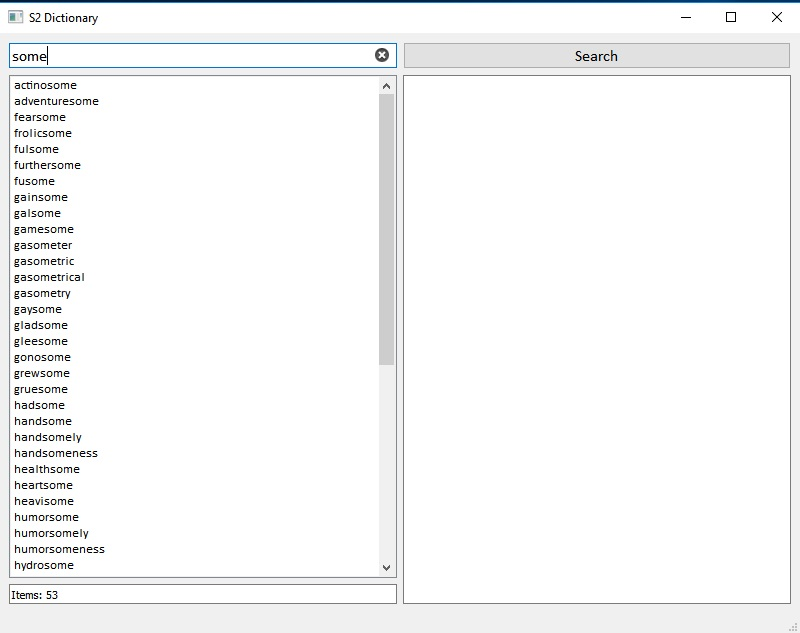
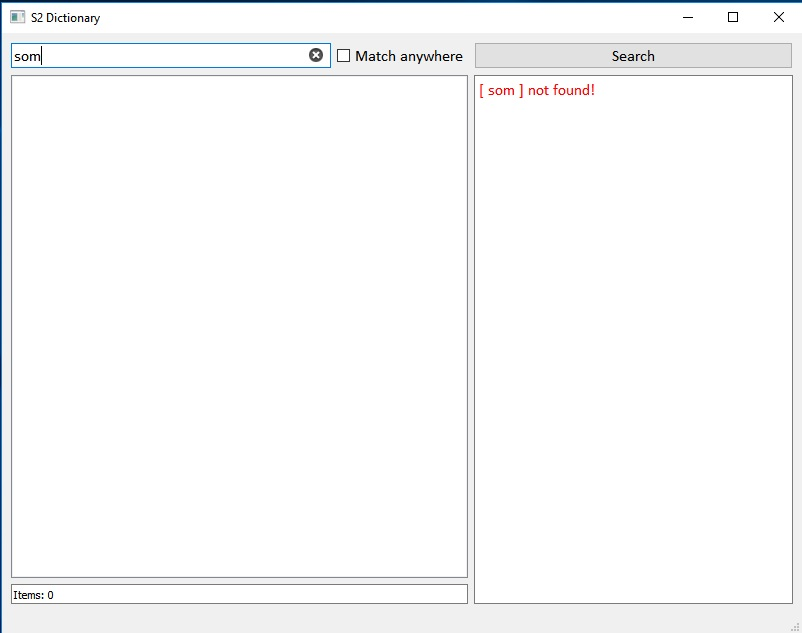
Added strict matching

Changed region(s): [[0.0, 0.0, 0.125, 0.9605], [0.375, 0.06, 0.8125, 0.9605]]

diff --git a/Source/mainwindow.cpp b/Source/mainwindow.cpp
@@ -36,11 +36,11 @@ void DictionaryLoadWorker::LoadDictionary()
         {
             QString word = line.left(splitIndex).toLower();
             QString meaning = line.right(line.size() - splitIndex - 1);
-            m_wordDictionary[word] = meaning;
+            (*m_wordDictionary)[word] = meaning;
         }
     }// End of file
 
-    qDebug() << "Words loaded: " << m_wordDictionary.size();
+    qDebug() << "Words loaded: " << m_wordDictionary->size();
     if (invalidEntries)
     {
         qDebug() << "Invalid words: " << invalidEntries;
@@ -59,16 +59,21 @@ MainWindow::MainWindow(QWidget *parent)
 
     qRegisterMetaType<QStringMap>("QStringMap");
 
+    m_bUseMatchAnywhere = ui->chkUseRegex->isChecked();
+
+    // Create model data
     m_modelFilterData = new QStandardItemModel();
     m_modelAllData = new QStandardItemModel();
 
+    // allocate memory to Word dictionary
+    m_wordDictionary = new QStringMap;
+
     // Entire word list is the currently active model
     m_activeModel = m_modelAllData;
-    m_activeModel->sort(0, Qt::AscendingOrder);
 
     // Create dictionary load worker and start running
     DictionaryLoadWorker *worker = new DictionaryLoadWorker(m_wordDictionary);
-    connect(worker, SIGNAL(DictionaryLoaded(QStringMap)), this, SLOT(OnDictionaryLoaded(QStringMap)));
+    connect(worker, SIGNAL(DictionaryLoaded(QStringMap*)), this, SLOT(OnDictionaryLoaded(QStringMap*)));
     worker->start();
 
     ui->statusBar->showMessage("Loading Dictionary. Please wait...");
@@ -87,18 +92,34 @@ MainWindow::~MainWindow()
 void MainWindow::UpdateModel(QStandardItemModel* model)
 {
     m_activeModel = model;
+    m_activeModel->sort(0, Qt::AscendingOrder);
     ui->listWords->setModel(m_activeModel);
 }
 
 //-------------------------------------------------------------------------------------------------------
-// Populates the word list as per the provided wordDictionary
+// Prepares model data for all the words in the dictionary
 //-------------------------------------------------------------------------------------------------------
-void MainWindow::PopulateWordList(const QStringMap & wordDictionary, bool bPopulateFullData)
+void MainWindow::PrepareDictionaryModelData()
+{
+    for(auto item = m_wordDictionary->begin(); item != m_wordDictionary->end(); item++)
+    {
+        QStandardItem *modelItem = new QStandardItem(item.key());
+        modelItem->setFlags(modelItem->flags() &  ~Qt::ItemIsEditable);
+        m_modelAllData->appendRow(modelItem);
+    }
+}
+
+//-------------------------------------------------------------------------------------------------------
+// Populates the word list as per the provided wordDictionary
+// By default bPopulateFullData = false
+//-------------------------------------------------------------------------------------------------------
+void MainWindow::PopulateWordList(QStringMap * wordDictionary)
 {
     ui->statusBar->showMessage("Populating word list...");
 
-    if (bPopulateFullData)
+    if (!wordDictionary)
     {
+        // Update word list as per the actual dictionary
         UpdateModel(m_modelAllData);
     }
     else
@@ -106,13 +127,14 @@ void MainWindow::PopulateWordList(const QStringMap & wordDictionary, bool bPopul
         // Clear the existing list first
         m_modelFilterData->clear();
 
-        for(auto item = wordDictionary.begin(); item != wordDictionary.end(); item++)
+        for(auto item = wordDictionary->begin(); item != wordDictionary->end(); item++)
         {
             QStandardItem *modelItem = new QStandardItem(item.key());
             modelItem->setFlags(modelItem->flags() &  ~Qt::ItemIsEditable);
             m_modelFilterData->appendRow(modelItem);
         }
 
+        // Update word list as per filter data
         UpdateModel(m_modelFilterData);
     }
 
@@ -124,17 +146,18 @@ void MainWindow::PopulateWordList(const QStringMap & wordDictionary, bool bPopul
 //-------------------------------------------------------------------------------------------------------
 // Triggered when the Dictionary load has completed
 //-------------------------------------------------------------------------------------------------------
-void MainWindow::OnDictionaryLoaded(QStringMap wordDictionary)
+void MainWindow::OnDictionaryLoaded(QStringMap * wordDictionary)
 {
     m_wordDictionary = wordDictionary;
-    if (m_wordDictionary.empty())
+    if (m_wordDictionary->empty())
     {
         ui->statusBar->showMessage("Failed to load dictionary!");
         return;
     }
 
-    ui->statusBar->showMessage("Dictionary loaded with " + QString::number(m_wordDictionary.size()) + " words.", 2);
-    PopulateWordList(m_wordDictionary);
+    ui->statusBar->showMessage("Dictionary loaded with " + QString::number(m_wordDictionary->size()) + " words.", 2);
+    PrepareDictionaryModelData();
+    PopulateWordList();
 
     ui->inpWord->setFocus();
 }
@@ -147,26 +170,39 @@ void MainWindow::on_inpWord_textChanged(const QString &arg1)
 {
     if (arg1.isEmpty())
     {
-        // Show entire entire word list if not already showing
-        PopulateWordList(m_wordDictionary);
+        // Show entire entire word list
+        PopulateWordList();
     }
     else if (arg1.size() > MIN_WORD_LENGTH_FOR_PREDICTION)
     {
-        QRegExp regexSearch(arg1.toLower());
         QString item;
-        QStringMap searchedWordsDict;
-        for (auto item = m_wordDictionary.begin(); item != m_wordDictionary.end(); item++)
+        QStringMap *searchedWordsDict = new QStringMap;
+        for (auto item = m_wordDictionary->begin(); item != m_wordDictionary->end(); item++)
         {
             QString word = item.key();
-            if (word.contains(regexSearch))
+            if (m_bUseMatchAnywhere)
             {
-                // Add this word to the filtered map
-                searchedWordsDict[word] = m_wordDictionary[word];
+                QRegExp regexSearch(arg1.toLower());
+                if (word.contains(regexSearch))
+                {
+                    // Add this word to the filtered map
+                    (*searchedWordsDict)[word] = m_wordDictionary->value(word);
+                }
+            }
+            else
+            {
+                QString searchString = arg1.toLower();
+                if (word.startsWith(searchString))
+                {
+                    // Add this word to the filtered map
+                    (*searchedWordsDict)[word] = m_wordDictionary->value(word);
+                }
             }
         }
 
         // Show in word list pane
         PopulateWordList(searchedWordsDict);
+        delete searchedWordsDict;
     }
 }
 
@@ -175,9 +211,9 @@ void MainWindow::on_inpWord_textChanged(const QString &arg1)
 //-------------------------------------------------------------------------------------------------------
 void MainWindow::ShowMeaning(const QString & word)
 {
-    if (m_wordDictionary.contains(word))
+    if (m_wordDictionary->contains(word))
     {
-        QString meaning = m_wordDictionary[word];
+        QString meaning = (*m_wordDictionary)[word];
         ui->txtMeaning->setHtml("<B>" + word + "</B><BR><BR>" + meaning);
     }
     else
@@ -210,4 +246,26 @@ void MainWindow::on_listWords_doubleClicked(const QModelIndex &index)
     QStandardItem *item = m_activeModel->itemFromIndex(index);
     QString word = item->text();
     ShowMeaning(word);
+}
+
+//-------------------------------------------------------------------------------------------------------
+// Triggered when regex search is enabled/disabled
+//-------------------------------------------------------------------------------------------------------
+void MainWindow::on_chkUseRegex_stateChanged(int arg1)
+{
+    m_bUseMatchAnywhere = arg1 == Qt::Checked;
+    if (m_bUseMatchAnywhere)
+    {
+        ui->statusBar->showMessage("Using match anywhere");
+    }
+    else
+    {
+        ui->statusBar->showMessage("using strict matching");
+    }
+
+    QString searchText = ui->inpWord->text().toLower();
+    if (!searchText.isEmpty())
+    {
+        on_inpWord_textChanged(searchText);
+    }
 }

diff --git a/Source/mainwindow.h b/Source/mainwindow.h
@@ -31,12 +31,13 @@ class MainWindow : public QMainWindow
 public:
     MainWindow(QWidget *parent = nullptr);
     ~MainWindow();
-    void PopulateWordList(const QStringMap & wordDictionary, bool bPopulateFullData = false);
+    void PrepareDictionaryModelData();
+    void PopulateWordList(QStringMap * wordDictionary = nullptr);
     void ShowMeaning(const QString & word);
     void UpdateModel(QStandardItemModel* model);
 
 public slots:
-    void OnDictionaryLoaded(QStringMap wordDictionary);
+    void OnDictionaryLoaded(QStringMap * wordDictionary);
 
 private slots:
     void on_inpWord_textChanged(const QString &arg1);
@@ -45,9 +46,12 @@ private slots:
 
     void on_listWords_doubleClicked(const QModelIndex &index);
 
+    void on_chkUseRegex_stateChanged(int arg1);
+
 private:
     Ui::MainWindow *ui;
-    QStringMap m_wordDictionary;
+    QStringMap *m_wordDictionary;
+    bool m_bUseMatchAnywhere;
     QStandardItemModel *m_modelFilterData;
     QStandardItemModel *m_modelAllData;
     QStandardItemModel *m_activeModel;
@@ -62,13 +66,13 @@ class DictionaryLoadWorker: public QThread
 Q_OBJECT
 
 private:
-    QStringMap m_wordDictionary;
+    QStringMap *m_wordDictionary;
 
 signals:
-    void DictionaryLoaded(QStringMap wordDictionary);
+    void DictionaryLoaded(QStringMap * wordDictionary);
 
 public:
-    DictionaryLoadWorker(const QStringMap & wordDictionary) : QThread()
+    DictionaryLoadWorker(QStringMap * wordDictionary) : QThread()
     {
         m_wordDictionary = wordDictionary;
     }
